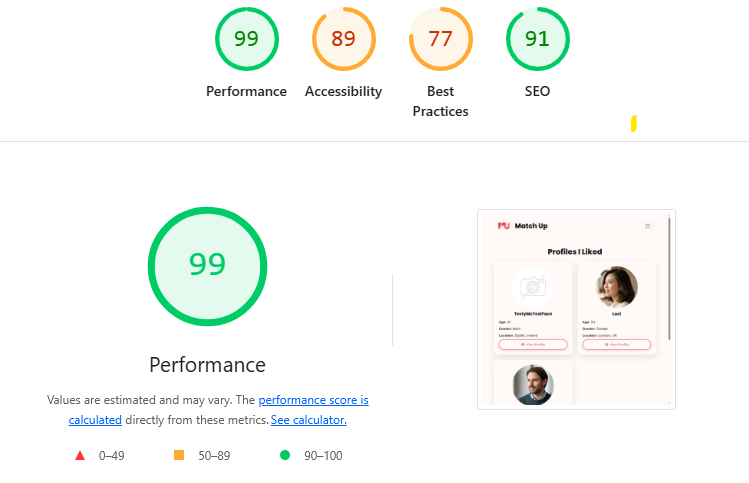
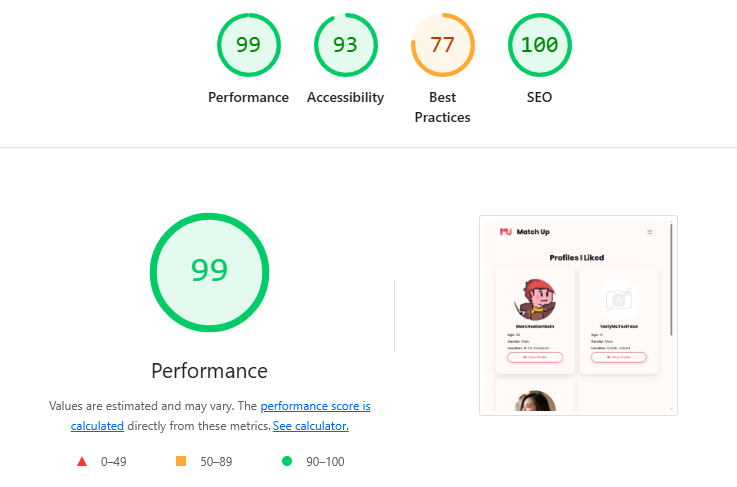
Update TESTING.md to include JavaScript validation details and add new Lighthouse screenshots for mobile and desktop views.

diff --git a/TESTING.md b/TESTING.md
@@ -38,7 +38,15 @@ I have used the recommended [CSS Jigsaw Validator](https://jigsaw.w3.org/css-val
 | static | [style.css](https://github.com/Scaphix/match_up/blob/main/static/css/style.css) | ![screenshot](documentation/validation/css-style.png) | 
 
 
-#
+### JavaScript
+
+
+I have used the recommended [JShint Validator](https://jshint.com) to validate all of my JS files.
+
+| Directory | File | URL | Screenshot | 
+| --- | --- | --- | --- | 
+| static | [script.js](https://github.com/Scaphix/match_up/blob/main/static/js/script.js) |  | ![screenshot](documentation/validation/js-script.png) | 
+
 
 ### Python
 
@@ -77,7 +85,7 @@ I've tested my deployed project using the Lighthouse Audit tool to check for any
 | Home | ![screenshot](documentation/lighthouse/mobile-index.png) | ![screenshot](documentation/lighthouse/desktop-index.png) |
 | Profile-detail | ![screenshot](documentation/lighthouse/mobile-about-me.png) | ![screenshot](documentation/lighthouse/desktop-about-me.png) |
 | Discover | ![screenshot](documentation/lighthouse/mobile-discover.png) | ![screenshot](documentation/lighthouse/desktop-discover.png) |
-| Liked-profiles | ![screenshot](documentation/lighthouse/mobile-discover.png) | ![screenshot](documentation/lighthouse/desktop-blog-post.png) |
+| Liked-profiles | ![screenshot](documentation/lighthouse/mobile-liked-profiles.png) | ![screenshot](documentation/lighthouse/desktop-liked-profiles.png) |
 | Matches | ![screenshot](documentation/lighthouse/mobile-matches.png) | ![screenshot](documentation/lighthouse/desktop-matches.png) |
 | 404 | ![screenshot](documentation/lighthouse/mobile-404.png) | ![screenshot](documentation/lighthouse/desktop-404.png) |
 
